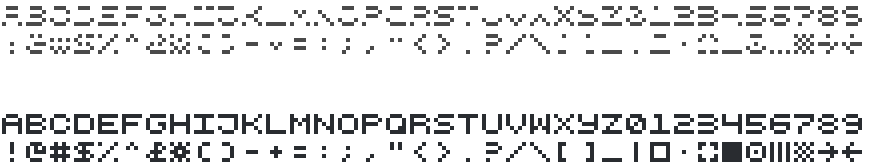
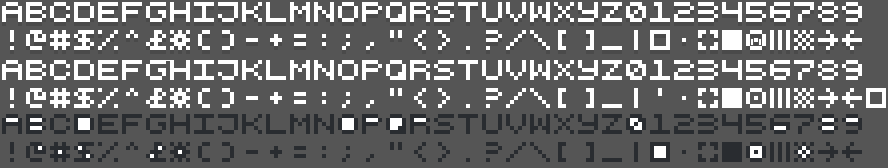
Render messages on textDisplay

diff --git a/src/System/renderMessageLog.ts b/src/System/renderMessageLog.ts
@@ -1,8 +1,9 @@
 import { CONFIG } from '../config'
 import { Engine } from '../Core/Engine'
-import { half, loop } from '../lib/util'
+import { half } from '../lib/util'
 
-const { messageDisplayHeight, messageBufferDisplaySize } = CONFIG
+const { messageDisplayHeight, messageBufferDisplaySize, textDisplayWidth, textDisplayHeight } =
+  CONFIG
 
 export function renderMessageLog(engine: Engine) {
   const { local, msgDisplay, textDisplay, messageLog, playerTurns, options } = engine
@@ -14,24 +15,37 @@ export function renderMessageLog(engine: Engine) {
   const center = { x: half(width), y: half(height) }
 
   msgDisplay.clear()
+  textDisplay.clear()
 
   // region name
   const name = local.name
-  msgDisplay.drawText(center.x - half(name.length), 0, name)
+  // msgDisplay.drawText(center.x - half(name.length), 0, name)
+  textDisplay.drawText(half(textDisplayWidth) - half(name.length), 0, name)
 
+  // * multi message display
   // game message buffer
-  const msgStack = messageLog.slice(-messageBufferDisplaySize).reverse()
-  const msgBufferY = height - messageBufferDisplaySize
+  // const msgStack = messageLog.slice(-messageBufferDisplaySize).reverse()
+  // const msgBufferY = height - messageBufferDisplaySize
 
-  loop(messageDisplayHeight, i => {
-    const msg = msgStack[i]
-    if (msg && playerTurns - msg.turn < 10) {
-      const x = center.x - half(msg.text.length)
-      const y = msgBufferY + i
+  // loop(messageDisplayHeight, i => {
+  //   const msg = msgStack[i]
+  //   if (msg && playerTurns - msg.turn < 10) {
+  //     const x = center.x - half(msg.text.length)
+  //     const y = msgBufferY + i
 
-      msgDisplay.drawText(x, y, msg.text)
-    }
-  })
+  //     msgDisplay.drawText(x, y, msg.text)
+  //   }
+  // })
+
+  // * single message
+  const latestMsg = messageLog.at(-1)
+  if (latestMsg && playerTurns - latestMsg.turn < 5) {
+    textDisplay.drawText(
+      half(textDisplayWidth) - half(latestMsg.text.length),
+      textDisplayHeight - 2,
+      '~' + latestMsg.text + '~'
+    )
+  }
 
   // ui messages
   const timeOnScreen = 2 * 1000
@@ -42,8 +56,7 @@ export function renderMessageLog(engine: Engine) {
   }
 
   // render spinner
-  const { height: textHeight } = textDisplay.getOptions()
-  textDisplay.drawText(0, textHeight - 1, `${spinner.next()}`)
+  textDisplay.drawText(0, 0, `${spinner.next()}`)
   if (options.debugMode) debugInfo(engine)
 
   // * this critical to the game rendering *
@@ -56,7 +69,7 @@ function debugInfo(engine: Engine) {
   const playerPos = local.player()?.position
   const [turnTime, renderTime] = getLogTimes(engine)
 
-  msgDisplay.drawText(0, 0, `${fps()}`)
+  msgDisplay.drawText(0, 0, ` ${fps()}`)
   msgDisplay.drawText(0, 1, turnTime)
   msgDisplay.drawText(0, 2, renderTime)
   msgDisplay.drawText(0, 3, `E:${engine.local.entityList.length}`)

diff --git a/src/lib/tilemap.ts b/src/lib/tilemap.ts
@@ -896,16 +896,18 @@ export const tileMapOryxMain = {
 } satisfies { [key: string]: [number, number] }
 
 export function oryxTinyFontMap(xSize: number, ySize: number) {
+  const yShift = 56
+
   const tiles = [
     'ABCDEFGHIJKLMNOPQRSTUVWXYZ0123456789 '.split(''),
-    '!@#$%^&*()-+=:;,"<>.?/\\[]_|'.split(''),
+    '!@#$%^&*()-+=:;,"<>.?/\\[]_|\''.split(''),
   ]
 
   const tilesLower = ['abcdefghijklmnopqrstuvwxyz'.split('')]
 
   const tileKey1 = tiles.reduce((acc, curr, y) => {
     const row = curr.reduce((rAcc, rCurr, x) => {
-      const tile = { [rCurr]: [x * xSize, y * ySize] } as Record<string, [number, number]>
+      const tile = { [rCurr]: [x * xSize, y * ySize + yShift] } as Record<string, [number, number]>
       return { ...rAcc, ...tile }
     }, {} as Record<string, [number, number]>)
 
@@ -914,12 +916,12 @@ export function oryxTinyFontMap(xSize: number, ySize: number) {
 
   const tileKey2 = tilesLower.reduce((acc, curr, y) => {
     const row = curr.reduce((rAcc, rCurr, x) => {
-      const tile = { [rCurr]: [x * xSize, y * ySize] } as Record<string, [number, number]>
+      const tile = { [rCurr]: [x * xSize, y * ySize + yShift] } as Record<string, [number, number]>
       return { ...rAcc, ...tile }
     }, {} as Record<string, [number, number]>)
 
     return { ...acc, ...row }
   }, {} as Record<string, [number, number]>)
 
-  return { ...tileKey1, ...tileKey2 }
+  return { ...tileKey1, ...tileKey2, '~': [864, 28] } as Record<string, [number, number]>
 }

diff --git a/src/Generate/crypt.ts b/src/Generate/crypt.ts
@@ -1,7 +1,8 @@
 import { CONFIG } from '../config'
 import { EntityKey, Region } from '../Core'
 import { Rect } from '../lib/Shape/Rectangle'
-import { pick, rnd } from '../lib/util'
+import { loop, pick, rnd } from '../lib/util'
+import { itemKeys } from '../Templates'
 import { BinarySpacePartition, Rooms } from './modules'
 import { Solver } from './modules/CSP/Solver'
 import { Overseer3 } from './Overseer3'
@@ -69,6 +70,8 @@ export function crypt(
         'beholder',
       ]),
     ])
+
+    loop(5, () => O3.add(room.rect.rndPt(), pick(itemKeys)))
   })
 
   O3.portal(

diff --git a/src/config.ts b/src/config.ts
@@ -11,7 +11,7 @@ const mainDisplayHeight = 19
 
 const messageDisplayWidth = 55
 const messageDisplayHeight = 28
-const messageBufferDisplaySize = 5
+const messageBufferDisplaySize = 2
 
 const textDisplayWidth = 73
 const textDisplayHeight = 32

diff --git a/src/lib/display.ts b/src/lib/display.ts
@@ -49,7 +49,6 @@ export const createTextDisplay = () => {
     tileWidth: 24,
     tileHeight: 28,
     tileSet: window.oryxTinyFont24,
-    tileColorize: true,
     tileMap: oryxTinyFontMap(24, 28),
   })
 
